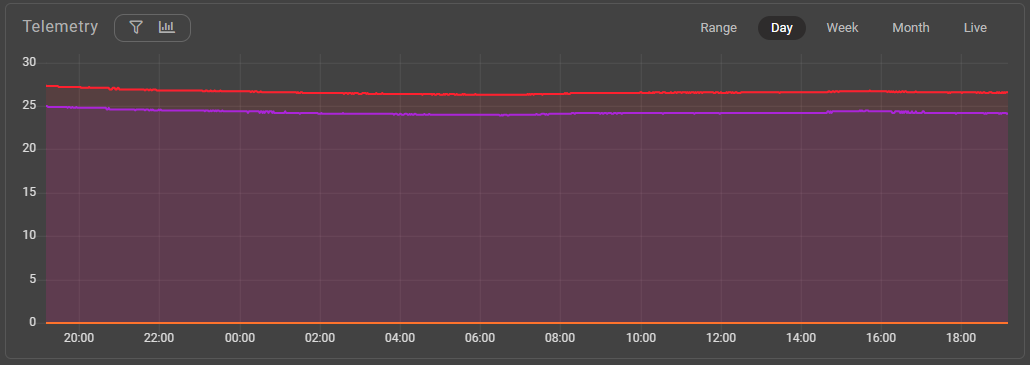
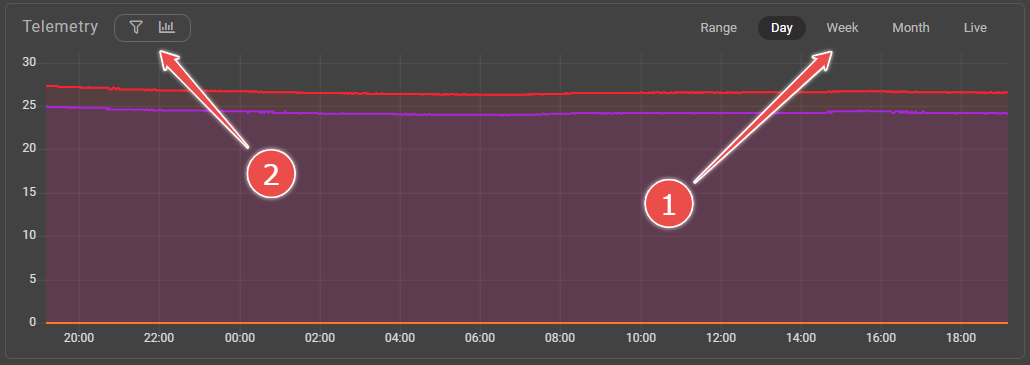
[AC-304] Corrections to Aura.Docs

diff --git a/docs/aura-connect/quickstart/index.md b/docs/aura-connect/quickstart/index.md
@@ -24,7 +24,9 @@ After a successful login you will see the [Dashboard](/aura-connect/gui/#dashboa
 Before connecting your printer to Aura.Connect make sure it's connected to the internet. For more information see [Wi-Fi Connection](https://support.anisoprint.com/composer/manual/#wi-fi-connection)
 :::
 
-One of the things Aura.Connect does, is it helps you to remotely operate and monitor printers owned by your company. For that, Aura.Connect needs to be linked to your physcial printers. to connect a physical printer to Aura.Connect, follow the instructions below
+One of the things Aura.Connect does, is it helps you to remotely operate and monitor printers owned by your company. For that, Aura.Connect needs to be linked to your physcial printers. 
+
+To connect a physical printer to Aura.Connect, follow the instructions below
 
 1. Navigate to the [Machines](/aura-connect/gui/#machines) screen by clicking on the **'Machines'** button in the [Sidebar](/aura-connect/gui/#sidebar)
 
@@ -32,13 +34,13 @@ One of the things Aura.Connect does, is it helps you to remotely operate and mon
 
     > While at the Dashboard screen, if no printers were added in Aura.Connect by your company, you can click the **'Add new machine'** button, which will redirect you to the Machines screen
 
-2. Click on the **'Add new machine'** button in the top left and you will see a [Machine creation form](/aura-connect/gui/#add-new-printer) appear in the bottom left
+2. Click on the **'Add new machine'** button [1] in the top left and you will see a [Machine creation form](/aura-connect/gui/#add-new-printer) [2] appear in the bottom left
 
     ![Machines screen](./media/machines_screen_when_adding_a_new_printer.png)
 
 3. In the form, enter the name of your printer, select its model, and enter its [Machine ID](/aura-connect/terminology/#machine-id)
 
-    - to find out your printers MachineID, on its screen press on **Maintenance** -> **Netowrk** -> **Aura.Connect**. You should now be able to see your printers Machine ID
+    - To find out your printers MachineID, on its screen press on **Maintenance** -> **Netowrk** -> **Aura.Connect**. You should now be able to see your printer's Machine ID
 
         ![Machine ID](./media/machine_id_on_printer_screen.png)
 
@@ -50,7 +52,7 @@ One of the things Aura.Connect does, is it helps you to remotely operate and mon
 
     ![Machine creation form after printer has been added](./media/machine_creation_form_after_printer_has_been_added.png)
 
-6. On your physical printers screen press on **Maintenance** -> **Netowrk** -> **Aura.Connect** -> **Connect**.
+6. On your physical printer's screen press on **Maintenance** -> **Netowrk** -> **Aura.Connect** -> **Connect**.
 
     1. Enter ***wss://aura3d.tech*** in the **Server URL** field
     2. Enter the connection code from step 5 in the **Security code** field
@@ -62,7 +64,9 @@ If all the points above have been completed successfully, you will be able to se
  
 ## Uploading print files
 
-Aura.Connect allows you to remotely queue print jobs for your printers. For that you need to upload .gcode (and optionally .auprojx) files into your company's file library. to do that, follow the instruction below
+Aura.Connect allows you to remotely queue [print jobs](/aura-connect/terminology/#jobs) for your printers. For that you need to upload .gcode (and optionally .auprojx) files into your company's file library. 
+
+To upload print files, follow the instruction below
 
 1. Navigate to the [Library](/aura-connect/gui/#library) screen by clicking on the **'Library'** button in the [Sidebar](/aura-connect/gui/#sidebar)
 
@@ -76,7 +80,7 @@ Aura.Connect allows you to remotely queue print jobs for your printers. For that
 
 4. Optionally drag and drop .auprojx file into the **.auprojx** field
 
-> Alternitevely you can click on the cloud icon to browse for files on your PC
+> Alternatively you can click on the cloud icon to browse for files on your PC
 
 5. Click on the **'Upload'** button.
 
@@ -93,13 +97,17 @@ If all the points above were successfully completed, the files that you selected
 All queued jobs require the user to manually start them
 :::
 
-At this point, Aura.Connect is connected to a physcial printer and is ready to queue jobs containing .gcode files onto them. to queue a job, follow the instructions below
+At this point, Aura.Connect is connected to a physcial printer and is ready to queue jobs containing .gcode files onto that printer. 
+
+To queue a job, follow the instructions below
 
 1. Navigate to the [Jobs](/aura-connect/gui/#jobs) screen by clicking on the **'Jobs'** button in the [Sidebar](/aura-connect/gui/#sidebar)
 
     ![Jobs button in the sidebar](./media/jobs_button_in_the_sidebar.png)
 
 2. Click on the **'Queue new job'** button and you will see a [Job queue wizard](/aura-connect/gui/#queue-a-new-job) dialog window appear.
+
+    ![Queue new job button](./media/queue-new-job-button.png)
 
 3. In the dialog window, select the printer we added earlier, then select a file that we also added previously, click **'Confirm'**. A new job in the left hand side will appear.
 
@@ -119,18 +127,20 @@ You can queue more jobs, as needed. Or click on the [Job card](/aura-connect/gui
 Before starting a job make sure that your printer is supplied with all the necessary materials required to perform a print. Refer to [Loading materials](https://support.anisoprint.com/composer/manual/#loading-materials-2) and [Test print](https://support.anisoprint.com/composer/manual/#loading-materials-2) for more information
 :::
 
-So far, we've added a printer, a file, and queued a job. The job is now ready to be executed. There are two ways you can do that, they are described below. 
+So far, we've added a printer, uploaded a file, and queued a job. The job is now ready to be started. 
+
+There are two ways you can do that, which are described below. 
 
 ### From the printer
 
-Once the job has been queued onto the printer, you will see **'Aura.Connect Job awaiting'** button appear, press the button
+Once the job has been queued onto the printer, you will see **'Aura.Connect Job awaiting'** button appear on its screen, go ahead and press it
 
 ![Aura.Connect Job awaiting on printer screen](./media/aura_connect_job_awaiting_button_on_pritner_screen.png)
 
 You will see a screen containing information about the job, including:
 
 1. Print time
-2. Material consumptions
+2. Material consumptions for the print
 3. Name of .gcode file that will be executed
 
 ![Information about job on printer screen](./media/job_info_on_printer_screen.png)
@@ -158,9 +168,15 @@ Now that the job is started you can either monitor its progress in the [Jobs](/a
 
 ## Finishing a print job
 
-After the print is finished you must confirm it on the printer screen. Click the **'Done'** button at the bottom of the screen
+After the print is finished you must confirm it on the printer screen. Press the **'Done'** button at the bottom of the screen
 
 ![Finished job on printer screen](./media/finished_job_on_printer_screen.png)
+
+::: danger
+Before pressing the **'Done'** button make sure that you remove the printed part from the printer's buildplate. Not doing so is a really dangerous practice. 
+
+See [Not removing printed parts before subsequent prints](/aura-connect/before-you-start/#not-removing-printed-parts-before-subsequent-prints) for more information 
+:::
 
 ## Accumulating statistics
 

diff --git a/docs/aura-connect/before-you-start/index.md b/docs/aura-connect/before-you-start/index.md
@@ -5,12 +5,12 @@ This document contains important points that ***each user has to be fimiliar wit
 ## Usage hazards
 
 ::: danger
-There are certain scenarios which can be dangerous while using Aura.Connect and Composer printers. Go over the list below to prevent them
+There are certain scenarios which can be dangerous while using Aura.Connect and Composer printers. These scenarios and ways to prevent them are listed below
 :::
 
 ### Sending commands via [Terminal](/aura-connect/gui/#terminal-interactive-control) mid print
 
-While the [Terminal](/aura-connect/gui/#terminal-interactive-control) may be useful and seems harmless to use, it's dangerous to send command to a printer that is currently printing, because the **commands that you send in such case will be put into a command queue and won't execute immideately**, which can cause unwanted results or even a tragedy
+While the [Terminal](/aura-connect/gui/#terminal-interactive-control) may be useful and seems harmless to use, it's dangerous to send commands to a printer that is currently printing, because the **commands that you send in such case will be put into a printer command queue and *won't execute immideately***, which can cause unwanted results or even a tragedy
 
 ::: tip SOLUTION
 Don't send commands to a printer mid print, unless **you're sure it's safe** and you know what you're doing 
@@ -18,20 +18,18 @@ Don't send commands to a printer mid print, unless **you're sure it's safe** and
 
 ### Printing without required materials or with incorrect materials
 
-Starting a job remotely may cause you to forget to check the loaded materials on the printer's spools. This can lead to some spools not being loaded with the material required to perform a print. You may even forget to load any of the material, or leave the spools empty! This kind of mistake will result in a failed print and a waste of materials
+Starting a job remotely may cause you to forget to check the loaded materials on the printer's spools. This can lead to some spools not being loaded with the material required to perform a print. You may also the material onto the spools altogether! This kind of mistake will result in a failed print and/or a waste of materials
 
 ::: tip SOLUTION
-Always make sure that printer's spools are loaded with all the necessary materials required to perform a print
+Always make sure that the printer's spools are loaded with all the necessary materials required to perform a print
 :::
 
 ### Not removing printed parts before subsequent prints
 
-Printer's screen will notify the user when it's done printing. **You must remove the printed part from the buildplate, before pressing the 'Done' button on the printer's screen**. If you forget to do that, and start a new print - it will be printed over the part that's still on the buildplate, which can damage the printer
-
-> Although this is common sense, you may forget to do so due to the remote opeartion capabilities provided by Aura.Connect
+Printer's screen will notify the user when it's done printing. **You must remove the printed part from the buildplate, before pressing the 'Done' button on the printer's screen**. If you forget to do that, and start a new print - it will be printed over the part that's still on the buildplate, which can damage the printer or result in a bad print
 
 ::: tip SOLUTION
-Before starting each print always make sure the build plate is clean and does not contain any foreign object which can obstruct the print
+Before starting each print always make sure that the build plate is clean and does not contain any foreign object which can obstruct the print
 :::
 
 ### Not ensuring the safety of a print when starting it remotely
@@ -39,7 +37,7 @@ Before starting each print always make sure the build plate is clean and does no
 Due to remote opeartion capability provided by Aura.Connect, you may forget to check if the printing area is safe for a print. There may be other people operating the buildplate or performing printer maintenance. If you start a print during that time, you could harm those people
 
 ::: tip SOLUTION
-Always make sure that it's safe to start printing. No other people are operating on the printer physically at the moment of starting a print 
+Always make sure that it's safe to start printing. No other people should be operating on the printer physically at the moment of starting a new print 
 :::
 
 ### More safety!

diff --git a/docs/aura-connect/terminology/index.md b/docs/aura-connect/terminology/index.md
@@ -4,7 +4,7 @@ Aura.Connect introduces specific terminology, which is used throughout this docu
 
 ## Printer connection
 
-For a printer to be accesable in Aura.Connect user must establish a connection with that printer via Aura.Connect
+For a physical printer to be accessible in Aura.Connect user must establish a connection with that printer via Aura.Connect
 
 ### Connection components
 
@@ -23,21 +23,25 @@ Before connecting your printer to Aura.Connect make sure it's connected to the i
 
 To establish a connection with a printer user must perform the following steps:
 
-1. [Add a printer](/aura-connect/gui/#add-new-printer) in Aura.Connect, if you haven't done  that already
-2. On the physical printer's screen go to **Maintenance** -> **Netowrk** -> **Aura.Connect** and press **'Connect'**
+1. [Add a printer](/aura-connect/gui/#add-new-printer) in Aura.Connect, if they haven't done that already
+2. On the physical printer's screen go to **Maintenance** -> **Network** -> **Aura.Connect** and press **'Connect'**
 3. Enter ***wss://aura3d.tech*** in the **Server URL** field
 4. Enter the [Connection Code](#connection-code) in the **Security code** field
 5. Press **Connect**
 
+> See [Connection Code](#connection-code) to find out how to obtain it
+
 ## Machine ID
 
-Machine ID is a combination of 6 characters, that is used to uniquly identify a printer. 
+Machine ID is a combination of 6 characters, that is used to uniquely identify a printer. 
 
-Can be found by pressing **Maintenance** -> **Netowrk** -> **Aura.Connect** on the printer's screen
+Can be found by pressing **Maintenance** -> **Network** -> **Aura.Connect** on the printer's screen
 
 ## Connection code
 
-Connection code is a combination of 6 digits, which is provided to a user of Aura.Connect, when creating a connection with a printer. It is used to verify a connection on the printers screen in **Maintenance** -> **Netowrk** -> **Aura.Connect** 
+Connection code is a combination of 6 digits, which is provided to a user of Aura.Connect, when creating a connection with a printer. 
+
+It is used when establishing a connection on the printers screen in **Maintenance** -> **Network** -> **Aura.Connect** 
 
 ### How to obtain
   1. By creating a printer (see [Add new printer](/aura-connect/gui/#add-new-printer))
@@ -64,15 +68,15 @@ All jobs require a user to manually start them. See [Starting a job](/aura-conne
 
 ## Sources and Files
 
-A source (or a file), is .gcode file with an optional .auprojx file uploaded to Aura.Connect. These units are used to create [Jobs](#jobs) in Aura.Connect
+A source (or a file), is a .gcode file with an optional .auprojx file uploaded to Aura.Connect. These units are used to create [Jobs](#jobs) in Aura.Connect
 
 ## Job queue
 
-Each printer has a job queue. When you create a job for some printer, it gets put into that printer's job queue. The first job in the queue will be displayed on the printer's screen. You can change the order of jobs for a printer in the [Job Inspector](/aura-connect/gui/#job-inspector)
+Each printer has a job queue. When you create a job for some printer, it gets put into that printer's job queue. The first job in the queue will be displayed on the printer's screen. You can change the order of jobs for a printer in the [Job Inspector](/aura-connect/gui/#job-inspector) in Aura.Connect
 
 ## Telemetry
 
-Is a collection of data sent by a printer, including:
+Is a collection of data sent by a printer to Aura.Connect. This data includes:
 
 1. Build plate temperature
 2. Chamber temperature

diff --git a/docs/aura-connect/gui/index.md b/docs/aura-connect/gui/index.md
@@ -357,7 +357,7 @@ If you can't see the fitering switches, use the toggle buttons next to the **'Te
 
 #### Error log (informational control)
 
-Show the different errors, warnings, and informational messages sent by a printer.
+Show the different errors, warnings, and informational messages sent by a printer. You can also change the period for which you're viewing the errors [1], and filter the errors by their types [2]
 
 ![Error log control](./media/machines/error-control.png)
 
@@ -367,7 +367,7 @@ Is used to send commands and view raw logs from the printer.
 
 ![Terminal control](./media/machines/terminal-control.png)
 
-Type the command in the text field, and press **'Enter'** to send a command 
+Type the command in the text field next to the green cursor, and press **'Enter'** to send a command 
 
 ::: danger
 Sending command to printer while it's printing is dangerous, because commands won't be executed immideately! See [Sending commands via Terminal mid print](/aura-connect/before-you-start/#sending-commands-via-terminal-mid-print) for more information
